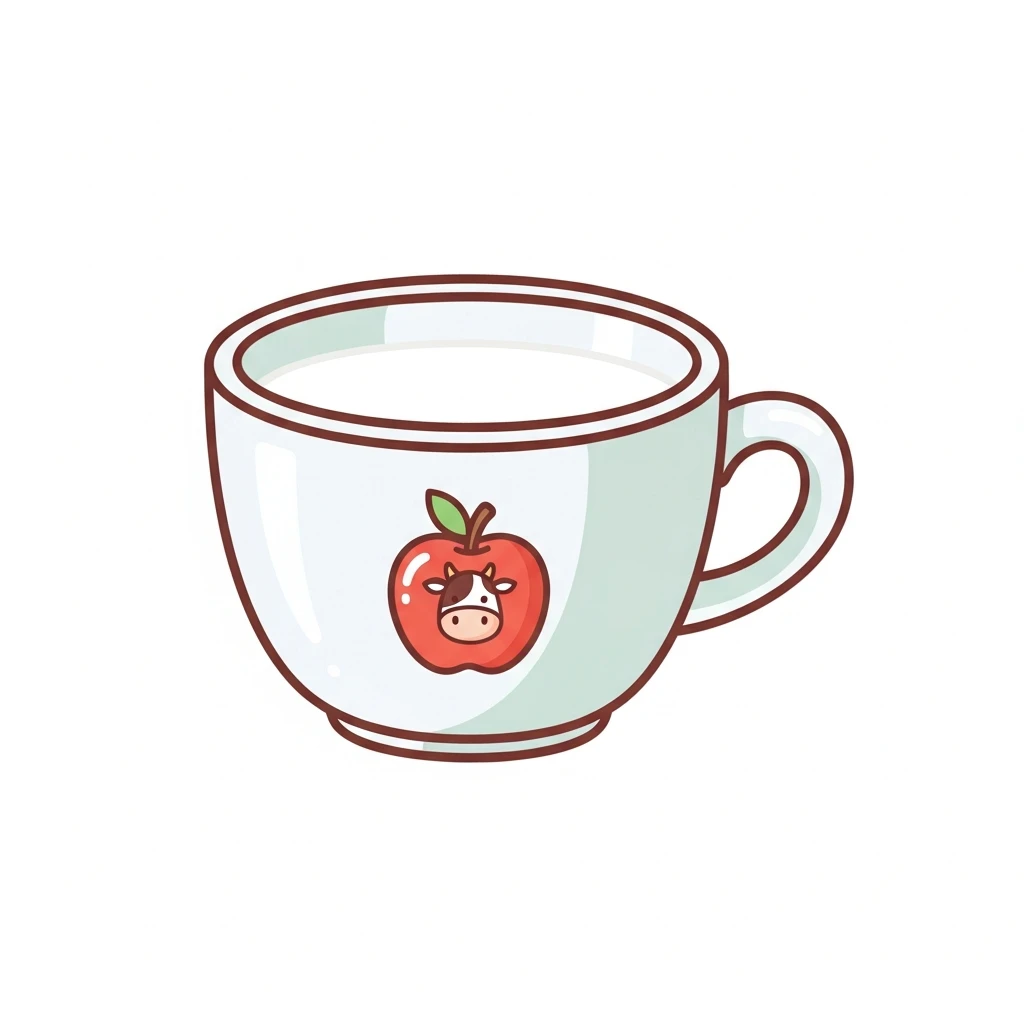
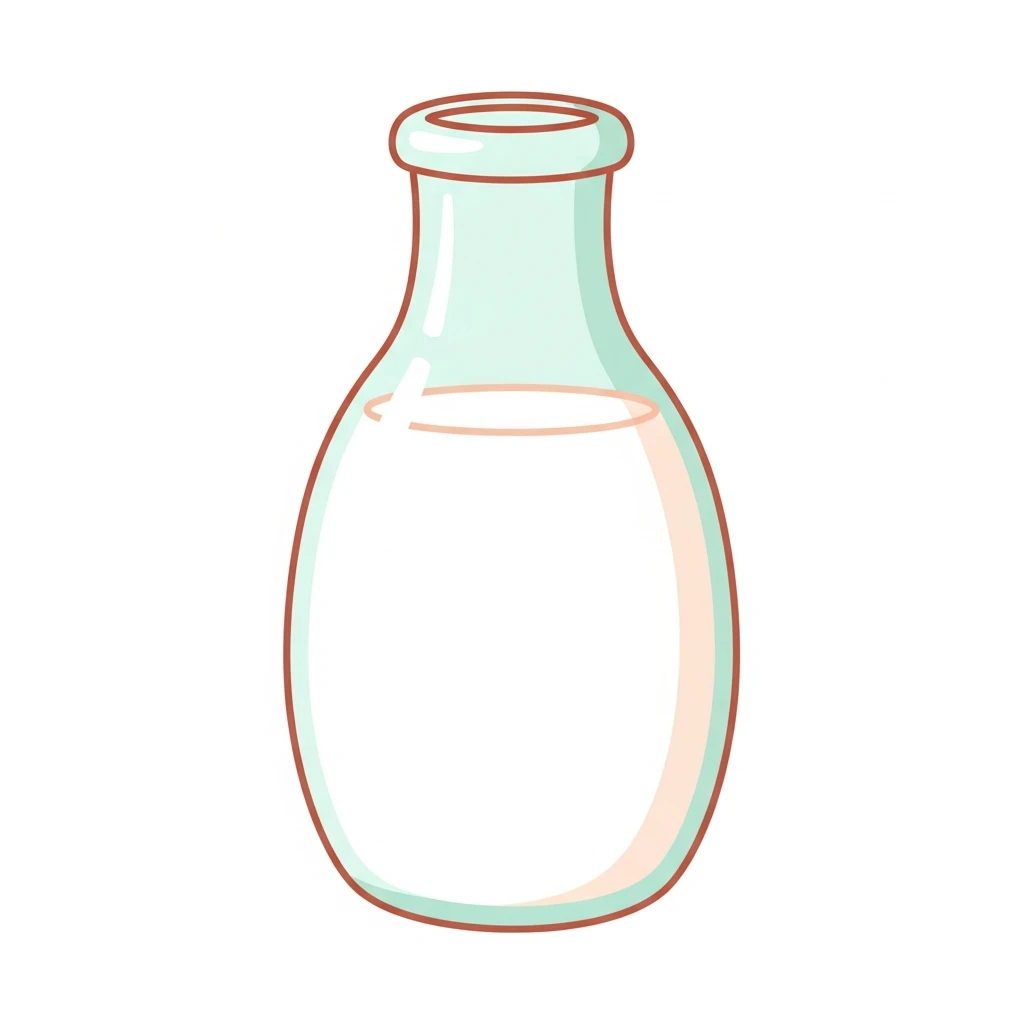
regen64: resolve 2/3 → 1 remains (99.94% pass rate)
- Passes: 흰우유(milk bottle), 늪(accepting lily pads as normal swamp)
- 먼저: accept '1st place' crown/badge as natural depiction, add to
  TEXT_ALLOWED_WORDS — model always generates competition decorations

Claude-Session: https://claude.ai/code/session_01DkegYDZvRc5EVtZJgSJ3CX

Changed region(s): [[0.1875, 0.0625, 0.8438, 0.9375]]

diff --git a/scripts/generate-word-images.ts b/scripts/generate-word-images.ts
@@ -219,7 +219,7 @@ export const WORD_CONTEXT: Record<string, string> = {
   "조금씩": "three identical plain white ceramic bowls in a row showing increasing amounts (조금씩 = little by little) — the leftmost bowl has just a few grains of rice, the middle bowl has a small spoonful, the rightmost has a slightly bigger serving — all three bowls are PLAIN WHITE CERAMIC with ABSOLUTELY NO face, NO eyes, NO mouth, NO expression on ANY bowl, NOT anthropomorphized, SIMPLE FOOD DIAGRAM STYLE, just three identical blank white bowls with gradually increasing rice amounts",
   "처음": "a cute baby yellow chick just hatching from a white egg for the very first time — the chick's fluffy head is emerging from a cracked eggshell, looking at the world with wide surprised eyes, representing experiencing something for the first time (처음), NO text, NO numbers, NO letters anywhere, simple flat illustration",
   "나중": "a small round orange seed lying in brown dirt, and beside it (slightly further away) a tiny green seedling just sprouting from the soil, representing something that happens 'later' (나중) after planting — two simple plant stages side by side, NO text, NO numbers, NO clock, NO calendar, NO face on plants, just seed and sprout",
-  "먼저": "a mother duck leading ducklings (먼저 = going first/ahead of others) — a large mother duck walking at the FRONT, slightly ahead, with 2-3 small yellow baby ducklings following behind her in a line, the mother duck is clearly in front/leading the group, all ducks are PLAIN with NO text, NO sash, NO medal, NO badge, NO ribbon, NO scarf, NO crown, NO number on any duck, just plain ducks walking in a line with the mother ahead — showing the concept of going first/leading, SIMPLE CUTE ANIMAL SCENE",
+  "먼저": "a winning duck running ahead in first place (먼저 = going first/first place) — a cute duck or chick at the FRONT of the scene, clearly AHEAD of 2-3 other smaller ducks behind it, the leading duck naturally wears a '1st place' crown or has a number '1' badge showing it is FIRST (먼저), the other ducks are behind and clearly in second/third position, this naturally shows the concept of going first, NO car, ABSOLUTELY NO apple, SIMPLE CUTE ANIMAL SCENE showing first place/first position",
   "횡단보도": "an overhead top-down view of a crosswalk (횡단보도) — ONLY alternating white and dark gray stripes painted on a dark road surface, clean parallel horizontal stripes pattern like a classic zebra crossing, NO people, NO children, NO stop signs, NO traffic lights, NO animals, NO text, just the pure white and gray stripe pattern of a crosswalk",
   "규칙": "a large bold green checkmark symbol on the LEFT side and a large bold red X symbol on the RIGHT side, side by side — the green check (✓) represents 'allowed' and the red X represents 'not allowed', representing rules (규칙) through simple symbols, NO text, NO writing, NO numbers, NO lists, just the two clean symbols on white background",
   "조심": "a bright yellow diamond-shaped caution/warning road sign with a large bold black exclamation mark (!) in the center — representing caution and being careful (조심), NO text, NO words, NO letters other than the exclamation mark symbol, just the yellow diamond warning sign shape",

diff --git a/scripts/verify-word-images.ts b/scripts/verify-word-images.ts
@@ -53,7 +53,7 @@ const SLEEP_WORDS = new Set(["자다", "졸음", "졸리다", "잠", "낮잠"]);
 
 // 텍스트가 의미의 핵심인 단어 — hasText 검사 전체 면제
 const TEXT_ALLOWED_WORDS = new Set(["글자", "숫자", "이름", "편지", "글씨", "단어", "키보드", "컴퓨터", "이름표", "달력", "책", "바코드", "돈", "신문", "잡지",
-  "건전지", "나침반", "쨍그랑", "양념병", "오일병", "비료", "소독기", "캐러멜", "홀"]);
+  "건전지", "나침반", "쨍그랑", "양념병", "오일병", "비료", "소독기", "캐러멜", "홀", "먼저"]);
 
 // 디자인적으로 얼굴이 있어야 정상인 장난감/물체 — 의인화 검사 면제
 // (오뚝이는 전통적으로 얼굴이 그려진 장난감, 목마는 말 얼굴이 있는 장난감)